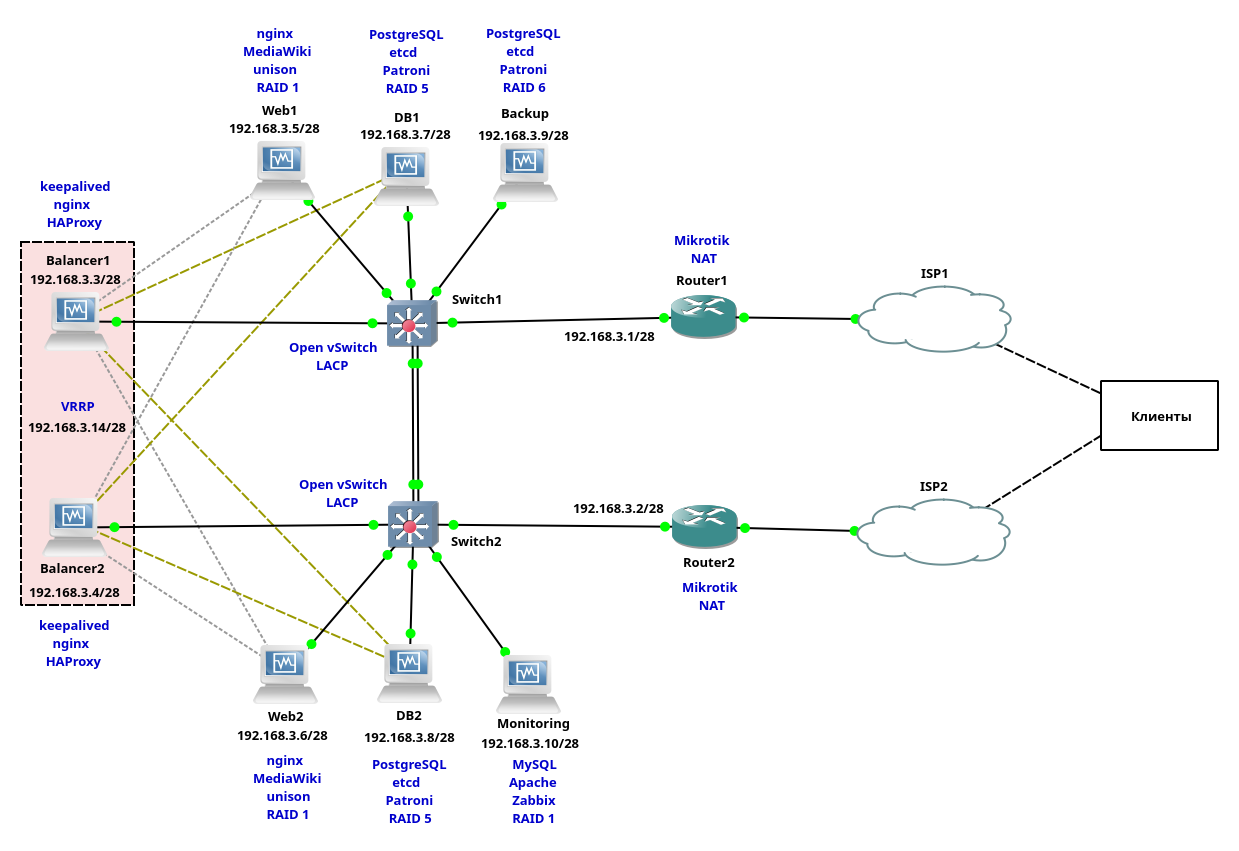
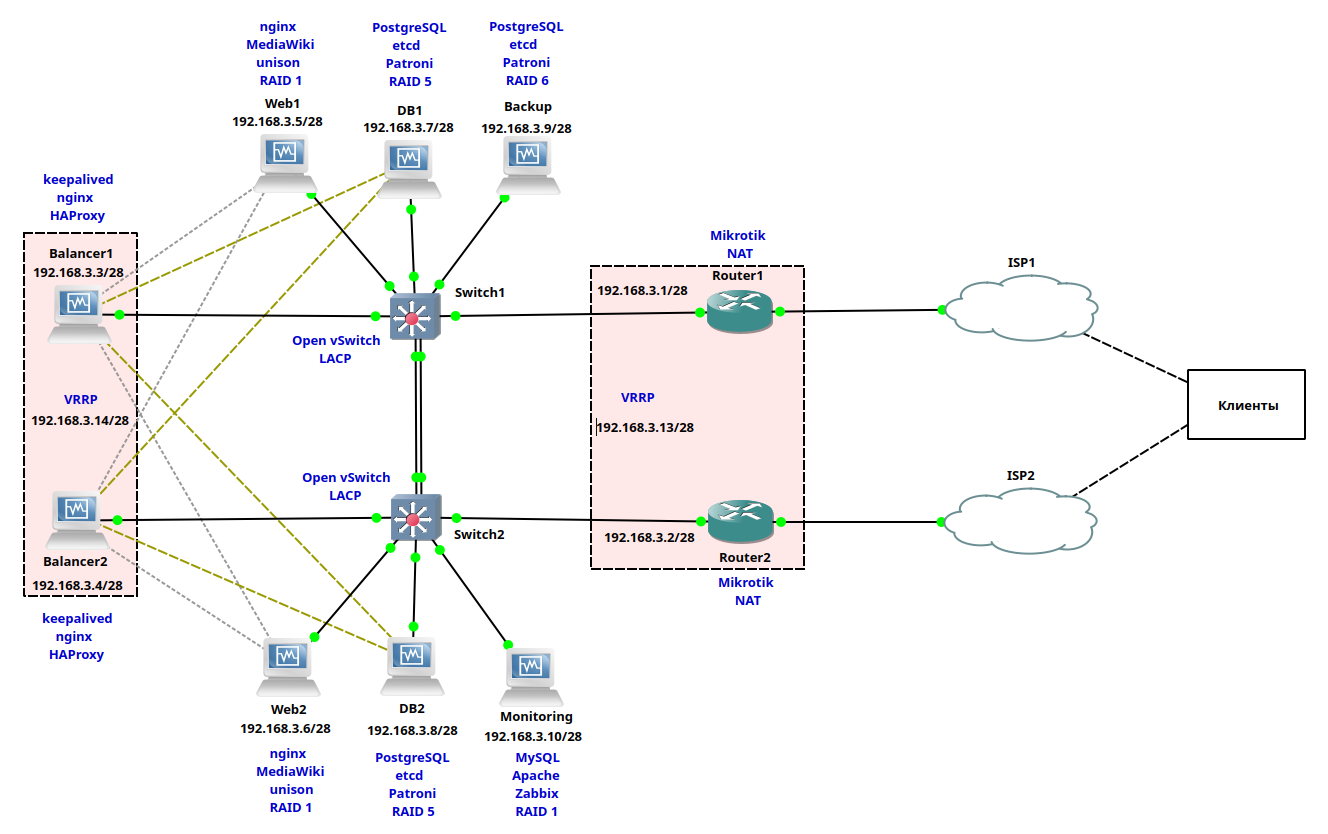
Добавлена настройка VRRP на роутерах.

diff --git a/network-structure.md b/network-structure.md
@@ -134,7 +134,7 @@
 
 10. Настроим сетевые интерфейсы роутеров:
 
-    * в консоли роутера "Router1" установим пароль администратора (по умолчанию он пустой) и выполнми (`192.168.1.1` и `192.168.1.2` - адреса шлюзов базовой системы):
+    * в консоли роутера "Router1" установим пароль администратора (по умолчанию он пустой) и выполним настройки (`192.168.1.1` и `192.168.1.2` - адреса шлюзов базовой системы):
 
         ```mikrotik
         interface enable ether1
@@ -142,10 +142,14 @@
         ip route add dst-address=0.0.0.0/0 gateway=192.168.1.1 check-gateway=ping distance=1
         ip route add dst-address=0.0.0.0/0 gateway=192.168.1.2 check-gateway=ping distance=2
         ip address add address=192.168.3.1/28 interface=ether2
-        ip firewall nat add chain=srcnat out-interface=ether1 action=masquerade
+        interface vrrp add interface=ether1 vrid=1 priority=100 name=vrrp1
+        ip address add address=192.168.122.99 interface=vrrp1
+        interface vrrp add interface=ether2 vrid=2 priority=100 name=vrrp2
+        ip address add address=192.168.3.13 interface=vrrp2
+        ip firewall nat add chain=srcnat out-interface=vrrp1 action=masquerade
         ```
 
-    * в консоли роутера "Router2" установим пароль администратора (по умолчанию он пустой) и выполнми (`192.168.1.1` и `192.168.1.2` - адреса шлюзов базовой системы):
+    * в консоли роутера "Router2" установим пароль администратора (по умолчанию он пустой) и выполним настройки (`192.168.1.1` и `192.168.1.2` - адреса шлюзов базовой системы):
 
         ```mikrotik
         interface enable ether1
@@ -153,48 +157,40 @@
         ip route add dst-address=0.0.0.0/0 gateway=192.168.1.2 check-gateway=ping distance=1
         ip route add dst-address=0.0.0.0/0 gateway=192.168.1.1 check-gateway=ping distance=2
         ip address add address=192.168.3.2/28 interface=ether2
-        ip firewall nat add chain=srcnat out-interface=ether1 action=masquerade
+        interface vrrp add interface=ether1 vrid=1 priority=90 name=vrrp1
+        ip address add address=192.168.122.99 interface=vrrp1
+        interface vrrp add interface=ether2 vrid=2 priority=90 name=vrrp2
+        ip address add address=192.168.3.13 interface=vrrp2
+        ip firewall nat add chain=srcnat out-interface=vrrp1 action=masquerade
         ```
 
-11. На серверах произведём следующие настройки сетевых подключений (серверы DNS во внешней сети имеют адреса 192.168.1.1 и 192.168.1.2):
+11. На серверах произведём следующие настройки сетевых подключений (сервер DNS во внешней сети имеет адрес 192.168.1.1):
 
     * "Balancer1":
         * IP-адрес: 192.168.3.3/28;
-        * маршрут по умолчанию: 192.168.3.1;
-        * серверы DNS: 192.168.1.1, 192.168.1.2;
     * "Balancer2":
         * IP-адрес: 192.168.3.4/28;
-        * маршрут по умолчанию: 192.168.3.2;
-        * сервер DNS: 192.168.1.2, 192.168.1.1;
     * "Web1":
         * IP-адрес: 192.168.3.5/28;
-        * маршрут по умолчанию: 192.168.3.1;
-        * сервер DNS: 192.168.1.1, 192.168.1.2;
     * "Web2":
         * IP-адрес: 192.168.3.6/28;
-        * маршрут по умолчанию: 192.168.3.2;
-        * сервер DNS: 192.168.1.2, 192.168.1.1;
     * "DB1":
         * IP-адрес: 192.168.3.7/28;
-        * маршрут по умолчанию: 192.168.3.1;
-        * сервер DNS: 192.168.1.1, 192.168.1.2;
     * "DB2":
         * IP-адрес: 192.168.3.8/28;
-        * маршрут по умолчанию: 192.168.3.2;
-        * сервер DNS: 192.168.1.2, 192.168.1.1;
     * "Backup":
         * IP-адрес: 192.168.3.9/28;
-        * маршрут по умолчанию: 192.168.3.1;
-        * сервер DNS: 192.168.1.1, 192.168.1.2;
     * "Monitoring":
         * IP-адрес: 192.168.3.10/28;
-        * маршрут по умолчанию: 192.168.3.2;
-        * сервер DNS: 192.168.1.2, 192.168.1.1;
+    * все хосты:
+        * маршрут по умолчанию: 192.168.3.13;
+        * сервер DNS: 192.168.1.1;
 
 12. На роутерах "Router1" и "Router2" выполним перенаправление порта из внешней сети для подключения к серверу "Monitoring" по SSH для удобства настройки (нестандартное значение внешнего порта для безопасности):
 
     ```mikrotik
-    ip firewall nat add chain=dstnat in-interface=ether2 protocol=tcp dst-port=4224 action=dst-nat to-addresses=192.168.3.10 to-ports=22
+    ip firewall nat add chain=dstnat in-interface=ether1 protocol=tcp dst-port=4224 action=dst-nat to-addresses=192.168.3.10 to-ports=22
+    ip firewall nat add chain=dstnat in-interface=vrrp1 protocol=tcp dst-port=4224 action=dst-nat to-addresses=192.168.3.10 to-ports=22
     ```
 
     Выясним адрес роутера на внешнем интерфейсе `ether1`:

diff --git a/monitoring.md b/monitoring.md
@@ -105,7 +105,7 @@
 12. На роутерах "Router1" и "Router2" настроим перенаправление портов для подключения к веб-серверам через балансировщики по виртуальному адресу из внешней сети по порту 8088:
 
     ```mikrotik
-    ip firewall nat add chain=dstnat in-interface=ether1 protocol=tcp dst-port=8088 action=dst-nat to-addresses=192.168.3.10 to-ports=80
+    ip firewall nat add chain=dstnat in-interface=vrrp1 protocol=tcp dst-port=8088 action=dst-nat to-addresses=192.168.3.10 to-ports=80
     ```
 
 13. В веб-браузере на хосте, имеющим доступ к хосту "Monitoring", откроем ресурс по соответствующеу адресу и порту в каталоге `/zabbix`.
